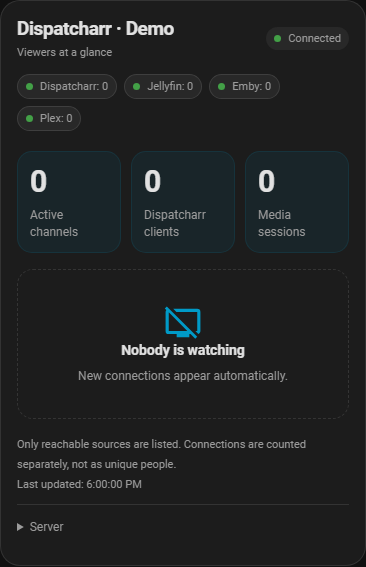
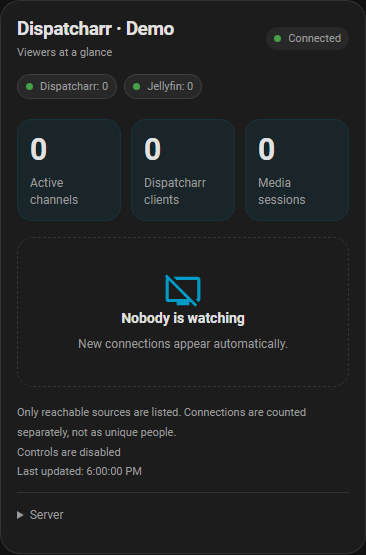
docs: refresh grouped-channel previews for main promotion

diff --git a/scripts/render_screenshots.py b/scripts/render_screenshots.py
@@ -3,16 +3,21 @@
 Requires Playwright and its Chromium browser. No server, login or IPTV is used.
 """
 
+from datetime import UTC, datetime
 from pathlib import Path
 
 from playwright.sync_api import expect, sync_playwright
 
 ROOT = Path(__file__).resolve().parents[1]
 OUTPUT = ROOT / "docs/screenshots"
+DEMO_TIME = datetime(2026, 10, 6, 16, tzinfo=UTC)
 DEMO = r"""async () => {
   const fixture = cardFixture, now = Date.now()/1000;
-  fixture.attributes.viewers = [fixture.attributes.viewers[0]];
-  fixture.attributes.viewers[0].connected_at = now - 1234;
+  fixture.attributes.viewers[0].connected_at = now - 160;
+  Object.assign(fixture.attributes.viewers[1], {
+    username:null, user_id:null, device_description:'Dispatcharr-DVR/recording-31',
+    connected_at:now - 1800
+  });
   fixture.media = {
     media_sources: ['jellyfin','emby','plex'].map(kind => ({
       id:kind,type:kind,name:{jellyfin:'Jellyfin',emby:'Emby',plex:'Plex'}[kind],
@@ -62,6 +67,66 @@ DEMO = r"""async () => {
 }"""
 
 
+def capture_previews(page, card, errors):
+    """Capture only the synthetic card, including in an authenticated HA frontend."""
+    page.evaluate("""() => {
+      const app = document.querySelector('home-assistant');
+      if (app) app.style.display = 'none';
+      Object.assign(document.querySelector('#dispatcharr-fixture').style,
+        {position:'relative',inset:'auto',overflow:'visible'});
+    }""")
+    expect(card.locator("article.viewer")).to_have_count(4)
+    expect(card.locator(".channel-card")).to_have_count(1)
+    expect(card.locator(".client")).to_have_count(2)
+    expect(card.locator(".dvr-badge")).to_have_count(1)
+    expect(card.locator(".logo img")).to_have_count(4)
+    expect(card.locator(".sources .status")).to_have_count(4)
+
+    def capture(name):
+        page.wait_for_function("""() => [...cardFixture.card.shadowRoot.querySelectorAll('img')]
+          .every(image => image.complete && image.naturalWidth > 0)""")
+        assert card.evaluate("e => e.scrollWidth <= e.clientWidth")
+        assert not errors, errors
+        card.screenshot(path=str(OUTPUT / name))
+
+    capture("desktop-en.png")
+    page.set_viewport_size({"width": 390, "height": 2200})
+    capture("mobile-en.png")
+    page.evaluate("cardFixture.update({}, {language:'de'});")
+    expect(card.get_by_text("Medien-Sessions", exact=True)).to_be_visible()
+    capture("mobile.png")
+    page.set_viewport_size({"width": 1000, "height": 1400})
+    capture("desktop-de.png")
+    page.evaluate("""() => {
+      cardFixture.media.sessions=[];
+      cardFixture.media.media_sources=[{id:'jellyfin',type:'jellyfin',name:'Jellyfin',
+        connected:true,session_count:0}];
+      cardFixture.card.style.maxWidth='560px';
+      cardFixture.update({control_enabled:false});
+    }""")
+    expect(card.locator("article.viewer")).to_have_count(1)
+    capture("grouped-channel-de.png")
+    page.evaluate("cardFixture.update({}, {language:'en'});")
+    capture("grouped-channel-en.png")
+    page.set_viewport_size({"width": 390, "height": 1200})
+    page.evaluate("""() => {
+      cardFixture.attributes.viewers=[];
+      cardFixture.update({active_channels:0});
+    }""")
+    expect(card.get_by_text("Nobody is watching", exact=True)).to_be_visible()
+    capture("empty.png")
+    page.evaluate("""() => {
+      cardFixture.media=null;cardFixture.offline=true;cardFixture.update();
+    }""")
+    capture("offline.png")
+    page.evaluate("""() => {
+      cardFixture.offline=false;
+      cardFixture.update({active_channels:1,viewers:[{client_id:'demo-unknown'}],control_enabled:false});
+    }""")
+    expect(card.get_by_text("No current EPG data", exact=True)).to_be_visible()
+    capture("missing.png")
+
+
 def main():
     with sync_playwright() as p:
         browser = p.chromium.launch()
@@ -73,8 +138,8 @@ def main():
         errors = []
         page.on("pageerror", lambda error: errors.append(str(error)))
         page.route("**/*", lambda route: route.abort())
-        page.clock.install(time=1791280800000)
-        page.clock.pause_at(1791280800000)
+        page.clock.install(time=DEMO_TIME)
+        page.clock.pause_at(DEMO_TIME)
         page.set_content("""<style>
           :root{--primary-color:#03a9f4;--primary-text-color:#e8eaed;
           --secondary-text-color:#a1a9b4;--card-background-color:#1c2028;
@@ -93,44 +158,11 @@ def main():
         page.evaluate("installDispatcharrFixture()")
         page.evaluate(DEMO)
         card = page.locator("dispatcharr-card")
-        expect(card.locator("article.viewer")).to_have_count(4)
-        expect(card.locator(".logo img")).to_have_count(4)
-        expect(card.locator(".sources .status")).to_have_count(4)
-
-        def capture(name):
-            assert card.evaluate("e => e.scrollWidth <= e.clientWidth")
-            assert not errors, errors
-            card.screenshot(path=str(OUTPUT / name))
-
-        capture("desktop-en.png")
-        page.set_viewport_size({"width": 390, "height": 2200})
-        capture("mobile-en.png")
-        page.evaluate("cardFixture.update({}, {language:'de'});")
-        expect(card.get_by_text("Medien-Sessions", exact=True)).to_be_visible()
-        capture("mobile.png")
-        page.set_viewport_size({"width": 1000, "height": 1400})
-        capture("desktop-de.png")
-        page.set_viewport_size({"width": 390, "height": 1200})
-        page.evaluate("""() => {
-          cardFixture.attributes.viewers=[];
-          cardFixture.media.sessions=[];
-          cardFixture.media.media_sources.forEach(s=>s.session_count=0);
-          cardFixture.update({active_channels:0},{language:'en'});
-        }""")
-        expect(card.get_by_text("Nobody is watching", exact=True)).to_be_visible()
-        capture("empty.png")
-        page.evaluate("""() => {
-          cardFixture.media=null;cardFixture.offline=true;cardFixture.update();
-        }""")
-        capture("offline.png")
-        page.evaluate("""() => {
-          cardFixture.offline=false;
-          cardFixture.update({active_channels:1,viewers:[{client_id:'demo-unknown'}],control_enabled:false});
-        }""")
-        expect(card.get_by_text("No current EPG data", exact=True)).to_be_visible()
-        capture("missing.png")
+        capture_previews(page, card, errors)
         browser.close()
-        print("Rendered 7 screenshots: EN/DE, desktop/mobile, empty, offline, missing data.")
+        print(
+            "Rendered 9 screenshots: EN/DE, desktop/mobile, grouped, empty, offline, missing data."
+        )
 
 
 if __name__ == "__main__":

diff --git a/docs/validation.md b/docs/validation.md
@@ -14,7 +14,7 @@ the successful exact Jellyfin stop, and Emby/Plex control limitations.
 
 ## Production verification
 
-### Grouped-channel beta preview
+### Grouped-channel preview and owner acceptance
 
 On 6 October 2026, the new card was loaded through a response override in a
 separate browser context against the real HA 2026.9.4 frontend and the existing
@@ -22,6 +22,16 @@ Dispatcharr 0.31.0 integration. The existing one-channel/two-client case, includ
 one reported DVR client, rendered as one channel block with two individual rows.
 Desktop and mobile checks passed. Installed files, dashboards and playback were
 not changed; no real session was stopped.
+
+After that read-only preview, the owner requested installation of the same card.
+Only the JavaScript file and its existing Lovelace resource version URL were
+updated, with a private backup of the original file and dashboard configuration.
+The installed file's hash matched the tested commit. A fresh browser confirmed
+the served module and layout on desktop and mobile without a response override
+or JavaScript errors. Dashboard configuration, Dispatcharr and Jellyfin settings,
+controls and playback were preserved; HA did not need a restart. The owner then
+approved promotion to `main`. This is layout acceptance, not a new live stop test
+or independent source-code review. No new release was published for this preview.
 
 The isolated Chromium suite covers two and fifteen clients sharing a UUID,
 distinct UUIDs with identical channel names, identical client IDs across different
@@ -162,10 +172,14 @@ all full-stack stop and outage scenarios listed above.
 
 All public screenshots contain synthetic users, programmes, logos and source
 measurements. They are not real customer or provider data.
-Version 0.2.0 previews show all four source types in the shipped card, rendered
-inside the actual HA frontend with synthetic fixture state and stubbed image and
-service calls. Desktop and mobile layouts are supplied in English and German.
-The source data and an offline preview renderer are in `scripts/render_screenshots.py`.
+The current previews show the next release's grouped-channel card on `main`,
+rendered inside the actual HA frontend with synthetic fixture state and stubbed
+image and service calls. Desktop and mobile layouts in English and German show
+a viewer and a reported DVR connection on one channel, alongside all three media
+server types. The empty, offline and missing-data previews are refreshed too.
+Release 0.2.0 still has the previous client-card layout. Setup-form screenshots
+remain accurate for 0.2.0; these forms did not change. The shared source data,
+capture checks and offline renderer are in `scripts/render_screenshots.py`.
 
 ![English desktop card](screenshots/desktop-en.png)
 ![No active playback](screenshots/empty.png)

diff --git a/docs/setup.de.md b/docs/setup.de.md
@@ -7,7 +7,7 @@ die Karte ins Dashboard setzen.** Die Keys für Jellyfin, Emby und Plex kommen
 nach der ersten Dispatcharr-Einrichtung in die Integrationsoptionen. Alle Schritte
 funktionieren über die Oberfläche.
 
-Die Bilder zeigen Ausschnitte aus Home Assistant **2026.9.4** mit Integration
+Die Bilder der Einrichtungsdialoge zeigen Home Assistant **2026.9.4** mit Integration
 **0.2.0** in einer vorübergehenden Testinstanz. Serveradresse und Wiedergabedaten
 sind Beispiele; alle Schlüsselfelder sind leer. Deine eigenen Server-URLs verwenden.
 Je nach HA-Version, Sprache und Theme können Beschriftung und Anordnung abweichen.
@@ -114,9 +114,11 @@ zweite Karteninstallation, zusätzliche JavaScript-Ressource oder YAML ist nicht
 nötig. Ohne aktive Sessions erscheint **Niemand schaut gerade**. Die Integration
 startet für die Vorschau keine Wiedergabe.
 
-### Gruppierte Sender (Beta-Entwicklung)
+### Gruppierte Sender (nächstes Release)
 
-Im Branch `beta` erscheint jeder Dispatcharr-Sender einmal mit Logo, Sendung und
+Diese Ansicht ist auf `main` für das nächste Release enthalten. Das veröffentlichte
+Release **0.2.0** zeigt weiterhin einzelne Client-Karten. In der neuen Ansicht
+erscheint jeder Dispatcharr-Sender einmal mit Logo, Sendung und
 Quellqualität. Darunter stehen alle **Verbindungen** mit Name beziehungsweise
 Alias und eigener Verbindungsdauer. Zwei Clients auf demselben Sender bedeuten
 also **1 aktiver Kanal, 2 Dispatcharr-Clients**, auch mit einem DVR-Client.

diff --git a/docs/setup.md b/docs/setup.md
@@ -6,7 +6,7 @@
 your dashboard.** Jellyfin, Emby and Plex keys go in the integration's options
 after the initial Dispatcharr setup. Everything below works through the GUI.
 
-These are cropped screenshots of Home Assistant **2026.9.4** running integration
+The setup-form screenshots show Home Assistant **2026.9.4** running integration
 **0.2.0** in a disposable test instance. The example server address and playback
 data are synthetic; all credential fields are empty. Use your own server URLs.
 Menu wording and layout can differ with your HA version, language and theme.
@@ -109,9 +109,11 @@ The card automatically includes media servers configured in step 3. No second
 card installation, extra JavaScript resource or YAML is needed. With no active
 sessions it shows **Nobody is watching**; it does not start playback for a preview.
 
-### Grouped channels (beta development)
+### Grouped channels (next release)
 
-On the `beta` branch, each Dispatcharr channel appears once, with its logo,
+This view is included on `main` for the next release; the published **0.2.0**
+release still shows separate client cards. In the new view, each Dispatcharr
+channel appears once, with its logo,
 programme and source quality. Its **Connections** list retains every client,
 name or alias and individual connection duration. Two clients on the same channel
 therefore mean **1 active channel, 2 Dispatcharr clients**, including a DVR client.

diff --git a/docs/README.de.md b/docs/README.de.md
@@ -32,7 +32,11 @@ dokumentiert. Der Repository-Inhaber hat zusätzlich einen manuellen
 Live-Abbruchtest bestätigt; automatisierte Stopptests verwenden synthetische Daten.
 Details stehen im [Transparenzhinweis](../AI_TRANSPARENCY.md).
 
-![Dispatcharr, Jellyfin, Emby und Plex gemeinsam — synthetische Beispieldaten](screenshots/desktop-de.png)
+**Vorschau auf das nächste Release:** Die folgenden Bilder zeigen die gruppierte
+Karte auf `main`. Jeder Sender erscheint einmal mit einzelnen Zuschauer-/DVR-
+Verbindungen. Das veröffentlichte Release **0.2.0** zeigt noch einzelne Client-Karten.
+
+![Gruppierter Dispatcharr-Sender neben Jellyfin, Emby und Plex — synthetische Beispieldaten](screenshots/desktop-de.png)
 
 Namen, Bilder, Sendungen und Qualitätswerte dieser Vorschau sind frei erfundene
 Beispieldaten. Sie veranschaulichen die Karte und zeigen keinen echten Server.

diff --git a/README.md b/README.md
@@ -32,7 +32,11 @@ Read the [media-server setup and control limits](docs/media-servers.md).
 (AI). Read the [AI transparency notice](AI_TRANSPARENCY.md) for its contribution,
 tests performed and remaining validation limits.
 
-![Dispatcharr, Jellyfin, Emby and Plex together — synthetic demo data](docs/screenshots/desktop-en.png)
+**Preview of the next release:** the screenshots below show the grouped-channel
+card on `main`. Each channel appears once, with separate viewer/DVR connections.
+The published **0.2.0** release still uses separate client cards.
+
+![Grouped Dispatcharr channel alongside Jellyfin, Emby and Plex — synthetic demo data](docs/screenshots/desktop-en.png)
 
 All names, artwork, programmes and quality values in these previews are fictional
 demo data. They illustrate the card, not a claim about a live server.

diff --git a/docs/architecture.md b/docs/architecture.md
@@ -97,8 +97,8 @@ does not expose trustworthy device pause/play state. Video fields describe the
 source channel, not guaranteed output quality after per-client transcoding.
 Missing identities, EPG, logos and quality measurements remain unknown.
 
-The beta card groups Dispatcharr client rows by the actual channel UUID within
-the selected configuration entry. Channel metadata is rendered once and each
+The card on `main` (not yet released) groups Dispatcharr client rows by the actual
+channel UUID within the selected configuration entry. Channel metadata is rendered once and each
 client keeps its own identity, duration, output fields and stop action. Missing
 or malformed UUIDs are never grouped together. Media-server sessions remain
 separate; names and titles are not cross-server identity keys. This is a frontend

diff --git a/CHANGELOG.md b/CHANGELOG.md
@@ -2,6 +2,9 @@
 
 ## Unreleased
 
+- Refresh English/German desktop and mobile dashboard screenshots for grouped
+  channels, including viewer/DVR connections and empty, offline and missing-data
+  states. Label this unreleased layout separately from the published 0.2.0 release.
 - Group Dispatcharr connections by channel UUID in the dashboard: show the logo,
   current programme and source quality once, with individual client rows below.
 - Identify reported Dispatcharr DVR clients, retain separate connection durations,

diff --git a/docs/media-servers.de.md b/docs/media-servers.de.md
@@ -12,6 +12,9 @@ auf `beta`. Name, Integrations-Domain und bestehende Entitäts-IDs bleiben erhal
 
 ![Gemeinsame Quellen mit synthetischen Beispieldaten](screenshots/desktop-de.png)
 
+Diese Vorschau zeigt die gruppierte Senderansicht auf `main` für das nächste Release.
+Das veröffentlichte Release 0.2.0 zeigt einzelne Dispatcharr-Client-Karten.
+
 ## Einrichtung über die Oberfläche
 
 1. Das Repository wie in der Hauptanleitung als HACS-Repository hinzufügen.

diff --git a/docs/media-servers.md b/docs/media-servers.md
@@ -12,6 +12,9 @@ use `beta`. The project name, domain and existing entity IDs remain unchanged.
 
 ![Concurrent sources using synthetic demo data](screenshots/desktop-en.png)
 
+This preview uses the next release's grouped-channel layout on `main`.
+The published 0.2.0 release shows separate Dispatcharr client cards.
+
 ## Install and configure without YAML
 
 1. Add this repository to HACS as described in the main README.
